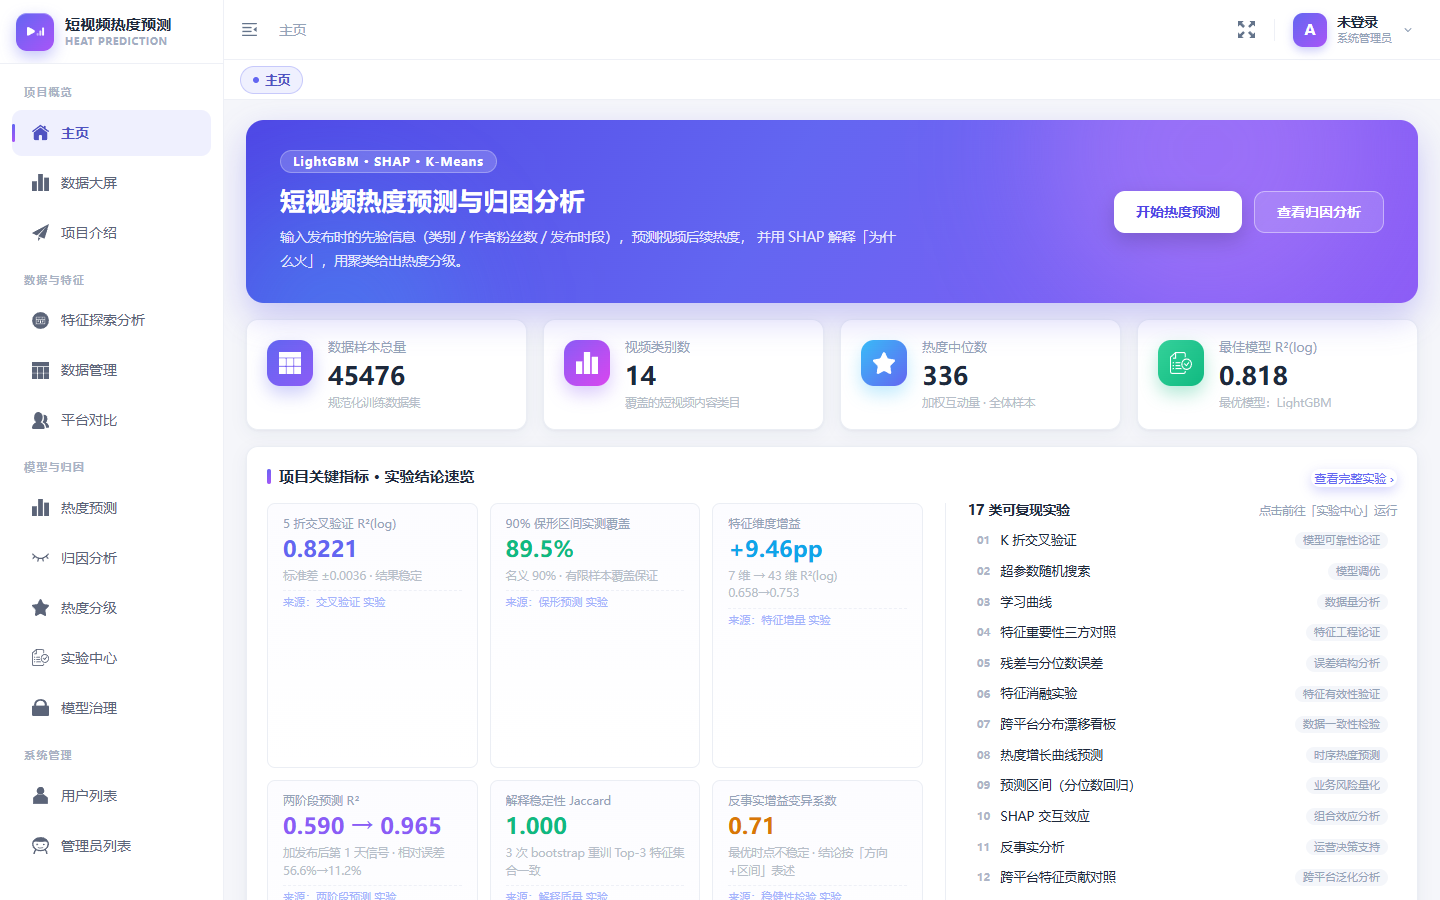
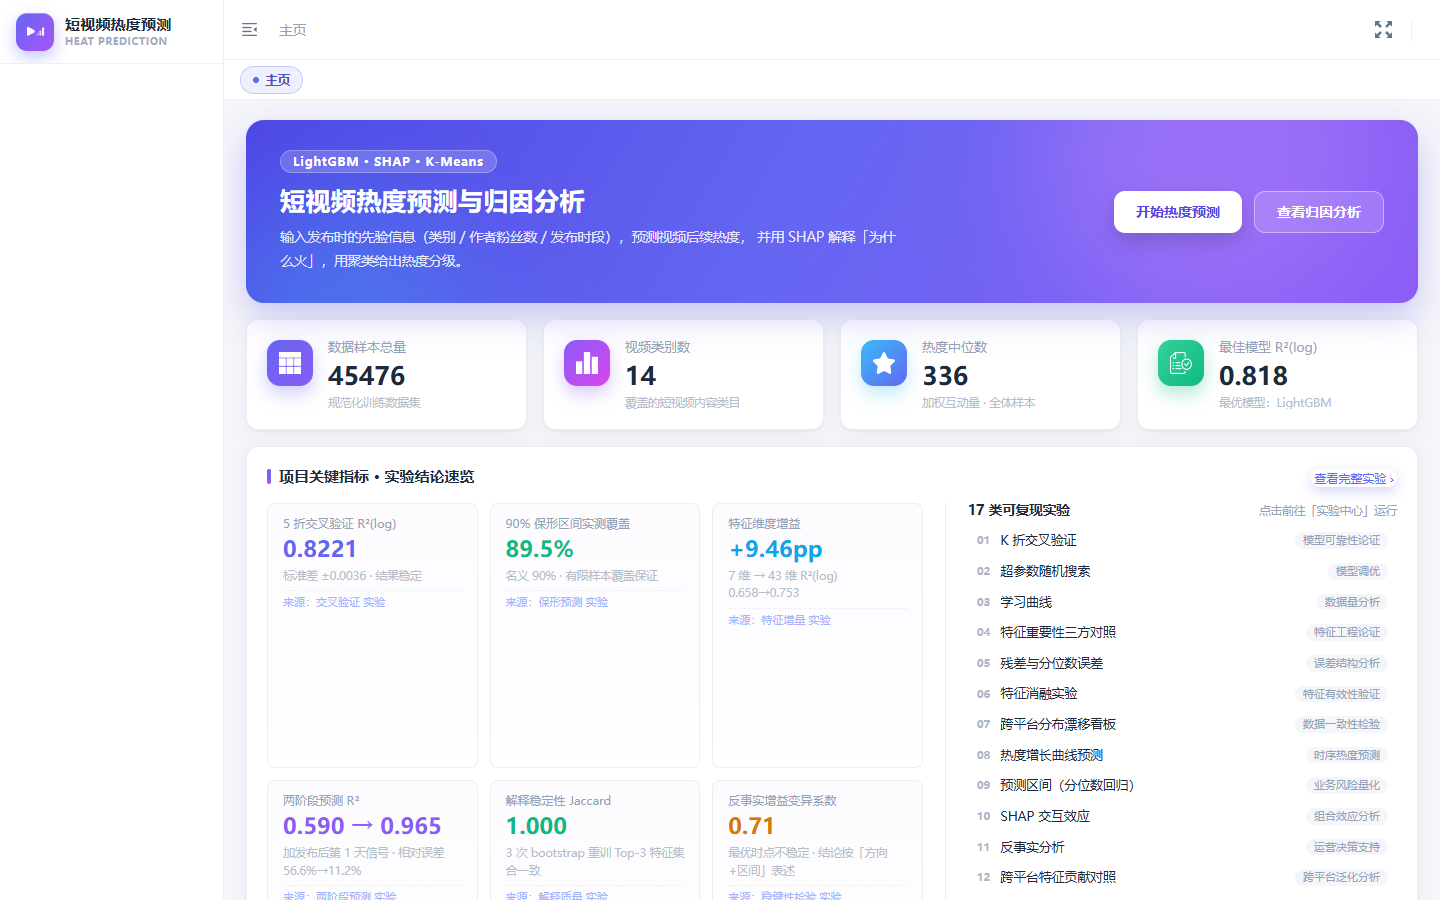
chore(privacy): 移除仓库中的个人身份信息并重新生成脱敏截图
- README / 技术方案 / 项目介绍页移除姓名、学号、班级与指导教师，改为中性表述（毕业设计作品 / 智能媒体工程学院 / 技术栈）

- 重新生成 9 张界面截图：隐藏右上角账户区（未登录 / 系统管理员 / 头像），页面不再出现任何身份信息

- 项目介绍页 hero 区改为「毕业设计作品 · 智能媒体工程学院 · 技术栈：Vue 3 + Spring Boot + Python」

diff --git a/frontend/src/views/about/index.vue b/frontend/src/views/about/index.vue
@@ -15,9 +15,9 @@
           <strong>「为什么这条视频会火 / 不火」</strong>，最终映射为可执行的运营建议。
         </p>
         <div class="hero-meta">
-          <span>作者：毕业设计作者</span>
-          <span>指导教师：指导教师</span>
-          <span>计算机类</span>
+          <span>毕业设计作品</span>
+          <span>智能媒体工程学院</span>
+          <span>技术栈：Vue 3 + Spring Boot + Python</span>
         </div>
       </div>
       <div class="hero-right">

diff --git a/技术方案.md b/技术方案.md
@@ -1,7 +1,6 @@
 # 基于 LightGBM 的短视频热度预测与归因分析系统的设计与实现
 
 > 毕业设计技术方案 / 开题文档
-> 作者：毕业设计作者（202400000，计算机类，指导教师：指导教师）
 > 版本：v2.0（已对齐实现：数据、特征、模型、指标均与工程代码一致；v1.0 为早期设想稿）
 
 ---

diff --git a/README.md b/README.md
@@ -2,7 +2,6 @@
 
 基于 **LightGBM + SHAP** 的短视频热度预测、分级与可解释归因 Web 系统（毕业设计）。
 
-> 作者：毕业设计作品
 > 技术方案文档：[技术方案.md](./技术方案.md)
 
 ---
